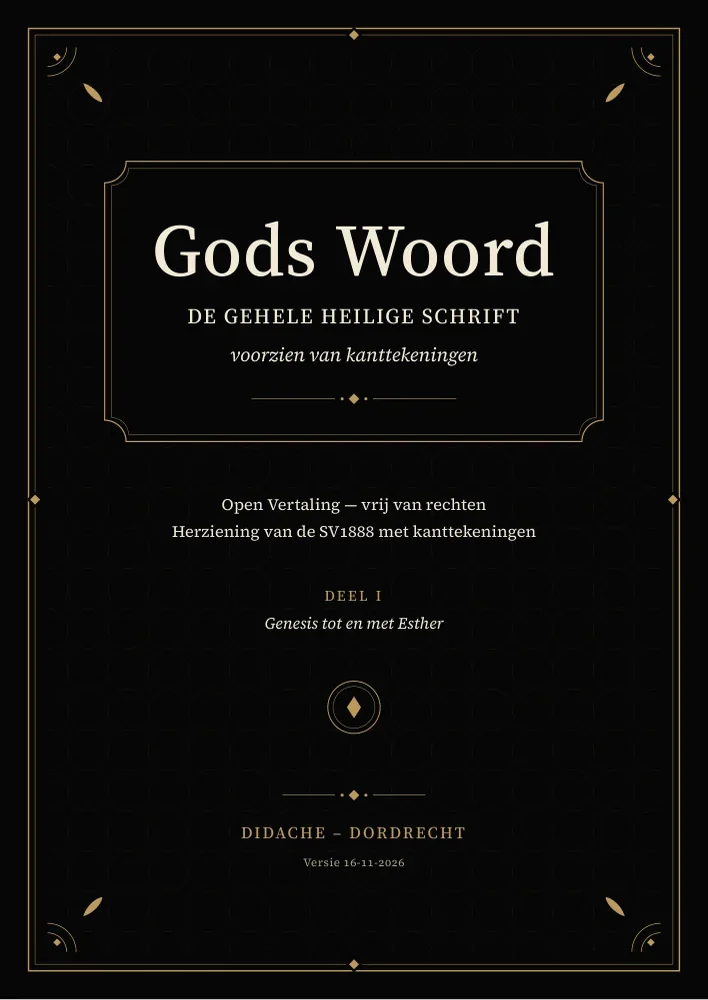
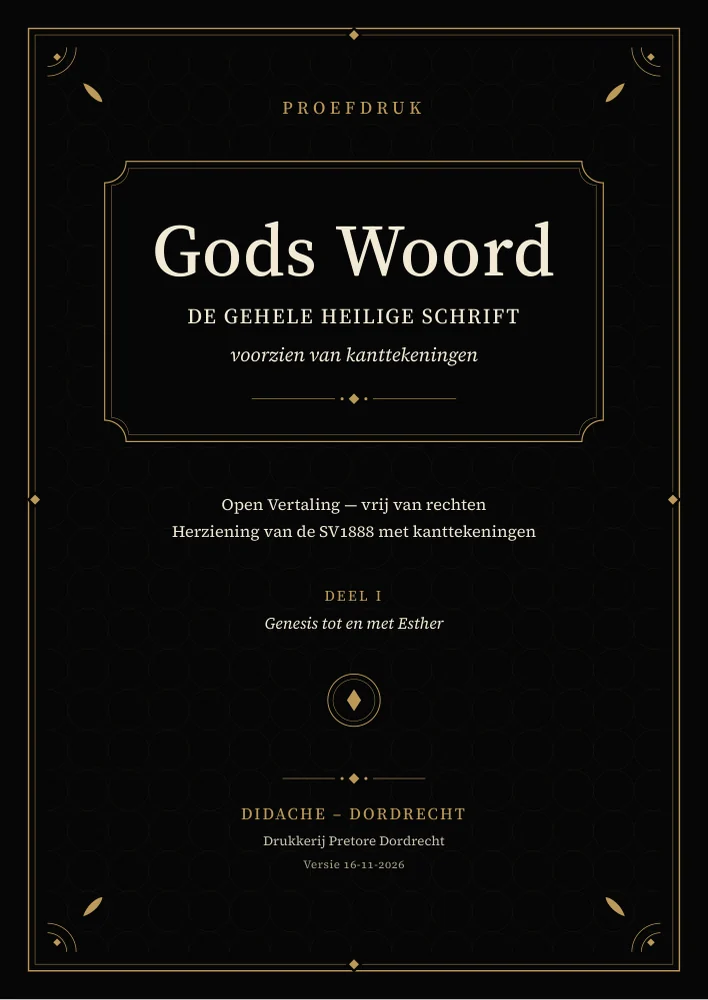
Voorblad: Proefdruk en Drukkerij Pretore Dordrecht
Bovenaan het voorblad staat PROEFDRUK (de constante STAAT; leeg maken voor
de definitieve druk), onder de uitgever Drukkerij Pretore Dordrecht. Geldt
voor de drie delen en de geillustreerde A3-uitgaven. De PDF-links en
omslagbeelden krijgen een nieuw versielabel, zodat browsers niet de oude
versie uit hun cache tonen.

Changed region(s): [[0.3418, 0.775, 0.6525, 0.868], [0.4661, 0.651, 0.5593, 0.744], [0.404, 0.093, 0.5904, 0.124]]

diff --git a/kanttekeningen.html b/kanttekeningen.html
@@ -20,7 +20,7 @@
     <meta property="og:title" content="De Bijbel met kanttekeningen — Open Vertaling">
     <meta property="og:description" content="De Open Vertaling met de herziene kanttekeningen als PDF in drie delen, gezet met de noten onder de tekst op dezelfde bladzijde.">
     <meta property="og:url" content="https://openvertaling.nl/kanttekeningen.html">
-    <meta property="og:image" content="https://openvertaling.nl/images/kanttekeningen/deel-1.webp?v=20261116-voorblad">
+    <meta property="og:image" content="https://openvertaling.nl/images/kanttekeningen/deel-1.webp?v=20261116-proefdruk">
     <meta name="twitter:card" content="summary_large_image">
 
     <link rel="stylesheet" href="css/fonts.css">
@@ -38,7 +38,7 @@
         <a class="kt-terug" href="downloads.html">← Alle downloads</a>
 
         <div class="kt-raster">
-            <img class="kt-omslag" id="kt-omslag" src="images/kanttekeningen/deel-1.webp?v=20261116-voorblad" alt="Omslag van deel I" width="600" height="900">
+            <img class="kt-omslag" id="kt-omslag" src="images/kanttekeningen/deel-1.webp?v=20261116-proefdruk" alt="Omslag van deel I" width="600" height="900">
 
             <div class="kt-tekst">
                 <h1>De Bijbel met kanttekeningen</h1>
@@ -52,21 +52,21 @@
                         <div>
                             <input type="radio" name="deel" id="kt-deel-1" value="1" checked>
                             <label class="kt-kaart" for="kt-deel-1">
-                                <img src="images/kanttekeningen/deel-1.webp?v=20261116-voorblad" alt="" width="46" height="69" decoding="async">
+                                <img src="images/kanttekeningen/deel-1.webp?v=20261116-proefdruk" alt="" width="46" height="69" decoding="async">
                                 <span><span class="kt-naam">Deel I</span><span class="kt-bereik">Genesis t/m Esther</span></span>
                             </label>
                         </div>
                         <div>
                             <input type="radio" name="deel" id="kt-deel-2" value="2">
                             <label class="kt-kaart" for="kt-deel-2">
-                                <img src="images/kanttekeningen/deel-2.webp?v=20261116-voorblad" alt="" width="46" height="69" decoding="async">
+                                <img src="images/kanttekeningen/deel-2.webp?v=20261116-proefdruk" alt="" width="46" height="69" decoding="async">
                                 <span><span class="kt-naam">Deel II</span><span class="kt-bereik">Job t/m Maleachi</span></span>
                             </label>
                         </div>
                         <div>
                             <input type="radio" name="deel" id="kt-deel-3" value="3">
                             <label class="kt-kaart" for="kt-deel-3">
-                                <img src="images/kanttekeningen/deel-3.webp?v=20261116-voorblad" alt="" width="46" height="69" decoding="async">
+                                <img src="images/kanttekeningen/deel-3.webp?v=20261116-proefdruk" alt="" width="46" height="69" decoding="async">
                                 <span><span class="kt-naam">Deel III</span><span class="kt-bereik">Mattheüs t/m Openbaring, met de apocriefe boeken</span></span>
                             </label>
                         </div>
@@ -79,15 +79,15 @@
                 </div>
 
                 <div class="kt-knoppen">
-                    <a class="kt-knop" id="kt-download" href="downloads/open-vertaling-kanttekeningen-deel-1.pdf?v=20261108-eenband" download>PDF downloaden</a>
-                    <a class="kt-knop kt-knop--rand" id="kt-open" href="downloads/open-vertaling-kanttekeningen-deel-1.pdf?v=20261108-eenband" target="_blank" rel="noopener">Openen in de browser</a>
+                    <a class="kt-knop" id="kt-download" href="downloads/open-vertaling-kanttekeningen-deel-1.pdf?v=20261116-proefdruk" download>PDF downloaden</a>
+                    <a class="kt-knop kt-knop--rand" id="kt-open" href="downloads/open-vertaling-kanttekeningen-deel-1.pdf?v=20261116-proefdruk" target="_blank" rel="noopener">Openen in de browser</a>
                 </div>
                 <p class="kt-omvang" id="kt-omvang"></p>
                 <noscript>
                     <p class="kt-omvang">
-                        <a href="downloads/open-vertaling-kanttekeningen-deel-1.pdf?v=20261108-eenband">Deel I</a> ·
-                        <a href="downloads/open-vertaling-kanttekeningen-deel-2.pdf?v=20261108-eenband">Deel II</a> ·
-                        <a href="downloads/open-vertaling-kanttekeningen-deel-3.pdf?v=20261108-eenband">Deel III</a>
+                        <a href="downloads/open-vertaling-kanttekeningen-deel-1.pdf?v=20261116-proefdruk">Deel I</a> ·
+                        <a href="downloads/open-vertaling-kanttekeningen-deel-2.pdf?v=20261116-proefdruk">Deel II</a> ·
+                        <a href="downloads/open-vertaling-kanttekeningen-deel-3.pdf?v=20261116-proefdruk">Deel III</a>
                     </p>
                 </noscript>
             </div>
@@ -151,7 +151,7 @@
     }
 
     function bestand(deel) {
-        return 'downloads/open-vertaling-kanttekeningen-deel-' + deel + '.pdf?v=20261108-eenband';
+        return 'downloads/open-vertaling-kanttekeningen-deel-' + deel + '.pdf?v=20261116-proefdruk';
     }
 
     function toon(deel) {
@@ -159,7 +159,7 @@
         var gegevens = verslag[deel] || {};
         var paginas = {};
         (gegevens.boeken || []).forEach(function (b) { paginas[b.naam] = b.pagina; });
-        document.getElementById('kt-omslag').src = 'images/kanttekeningen/deel-' + deel + '.webp?v=20261116-voorblad';
+        document.getElementById('kt-omslag').src = 'images/kanttekeningen/deel-' + deel + '.webp?v=20261116-proefdruk';
         document.getElementById('kt-omslag').alt = 'Omslag van deel ' + ROMEINS[deel];
         document.getElementById('kt-download').href = bestand(deel);
         document.getElementById('kt-open').href = bestand(deel);

diff --git a/eenband.html b/eenband.html
@@ -9,11 +9,11 @@
 <link rel="stylesheet" href="css/fonts.css"><link rel="stylesheet" href="css/style.css"><link rel="stylesheet" href="css/ontwerp.css?v=20261108-eenband-2"><link rel="stylesheet" href="css/kanttekeningen.css">
 </head><body><nav id="topnav"></nav><script src="js/topnav.js"></script>
 <main class="kt"><a class="kt-terug" href="downloads.html">← Alle downloads</a>
-<div class="kt-raster"><img class="kt-omslag" src="images/kanttekeningen/eenband-a3.webp?v=20261116-voorblad" alt="Zwart voorblad Gods Woord, één complete uitgave" width="707" height="1000">
+<div class="kt-raster"><img class="kt-omslag" src="images/kanttekeningen/eenband-a3.webp?v=20261116-proefdruk" alt="Zwart voorblad Gods Woord, één complete uitgave" width="707" height="1000">
 <div class="kt-tekst"><h1>Gods Woord, compleet in één band</h1><p class="kt-sub">Met kanttekeningen en illustraties van Jan van ’t Hoff</p>
 <p class="kt-oms">Alle 82 openbare Bijbelboeken, inclusief de apocriefe boeken, in één PDF. Met de herziene kanttekeningen onderaan de pagina en alle 126 werken uit de vastgelegde Gospelimages-catalogus van Jan van ’t Hoff.</p>
 <p>Bladformaat <strong>A3 · 297 × 420 mm</strong>, één formaat groter dan de driedelige A4-uitgave. De Bijbeltekst staat in twee kolommen en de kanttekeningen daaronder in drie. Gemarkeerde Godscitaten staan rood en cursief; de Godsnaam is HEERE.</p>
-<div class="kt-knoppen"><a class="kt-knop" href="downloads/gods-woord-kanttekeningen-geillustreerd-a3.pdf?v=20261108-inline" download>Download de complete geïllustreerde PDF</a><a class="kt-knop kt-knop--rand" href="downloads/gods-woord-kanttekeningen-geillustreerd-a3.pdf?v=20261108-inline" target="_blank" rel="noopener">Openen in de browser</a></div><p class="kt-omvang" id="eenband-omvang">Eén complete uitgave · A3 · 126 illustraties</p>
+<div class="kt-knoppen"><a class="kt-knop" href="downloads/gods-woord-kanttekeningen-geillustreerd-a3.pdf?v=20261116-proefdruk" download>Download de complete geïllustreerde PDF</a><a class="kt-knop kt-knop--rand" href="downloads/gods-woord-kanttekeningen-geillustreerd-a3.pdf?v=20261116-proefdruk" target="_blank" rel="noopener">Openen in de browser</a></div><p class="kt-omvang" id="eenband-omvang">Eén complete uitgave · A3 · 126 illustraties</p>
 <p>Ook beschikbaar: <a href="kanttekeningen.html">de driedelige uitgave met kanttekeningen op A4</a> en <a href="downloads/open-vertaling-volledig.pdf" download>de volledige Bijbel zonder kanttekeningen</a>.</p></div></div>
 <section class="kt-over"><h2>De schilderijen bij de tekst</h2><p>De afbeeldingen staan volledig en zonder uitsnede tussen de tekst: rechtstreeks tussen de verzen in de tekstkolommen, maximaal een halve pagina groot. De kanttekeningen sluiten direct aan op de tekst. Bij elk schilderij of elke tekening staan de titel en Bijbelplaats. De afbeelding bevat een klikbare link naar de oorspronkelijke toelichting. Naamsvermelding en gebruiksvoorwaarden staan voorin de PDF. Alle werken zijn opgenomen.</p>
 <figure class="kt-voorbeeld"><img src="images/gospelimages/reeks/7.jpg" width="1441" height="1080" loading="lazy" alt="Het Paradijs: Adam geeft de dieren namen, geschilderd door Jan van ’t Hoff"><figcaption>Het Paradijs — Genesis 2:20. © Jan van ’t Hoff · <a href="https://www.gospelimages.nl/schilderijen/7/het-paradijs">Gospelimages en toelichting</a>.</figcaption></figure>

diff --git a/index.html b/index.html
@@ -127,7 +127,7 @@
          passage uit data/johannes/1.json; zie js/startscherm.js. -->
     <main id="ov-start" class="ka-start" aria-labelledby="ka-start-titel">
         <section class="ka-nieuws ka-uitgave-nieuws" aria-labelledby="ka-uitgave-titel">
-            <a class="ka-uitgave-cover" href="kanttekeningen.html?v=20261108-voorblad" aria-label="Bekijk Gods Woord met titelblad"><img src="images/kanttekeningen/deel-1.webp?v=20261116-voorblad" alt="Zwart titelblad Gods Woord met gouden rand" width="130" height="184"></a>
+            <a class="ka-uitgave-cover" href="kanttekeningen.html?v=20261108-voorblad" aria-label="Bekijk Gods Woord met titelblad"><img src="images/kanttekeningen/deel-1.webp?v=20261116-proefdruk" alt="Zwart titelblad Gods Woord met gouden rand" width="130" height="184"></a>
             <div class="ka-uitgave-bericht">
                 <p class="ka-eyebrow">Gods Woord · Lezen en delen</p>
                 <h2 id="ka-uitgave-titel">Een uitgave om te bewaren, een traktaat om te delen</h2>

diff --git a/scripts/build_kanttekeningen_pdf.py b/scripts/build_kanttekeningen_pdf.py
@@ -922,7 +922,9 @@ def zet_boek(b, boek, namen, perikopen, stats, hoofdstukfilter=None, recto=True)
 
 # Uitgever en versie op het voorblad van alle uitgaven met kanttekeningen.
 UITGEVER = 'Didache – Dordrecht'
+DRUKKER = 'Drukkerij Pretore Dordrecht'
 VERSIE = '16-11-2026'
+STAAT = 'PROEFDRUK'  # leeg maken voor de definitieve druk
 GOUD = (0.74, 0.60, 0.35)
 OMSLAG_ZWART = (0.025, 0.025, 0.025)
 A4 = (595.28, 841.89)
@@ -1063,10 +1065,13 @@ def titelpagina(b, deel):
         for i, t in enumerate(titelregels):
             regel(t, tekst_cursief, HOOGTE - 530 - i * 20)
 
-    _medaillon(uit, midden, 246, 22)
-    _sierlijn(uit, midden, 172, 60)
-    regel(UITGEVER.upper(), uitgever, 136)
-    regel(f'Versie {VERSIE}', versie, 112)
+    if STAAT:
+        regel(STAAT, Stijl(kop, 15, spatie=4.0, afbreken=False, kleur=GOUD), HOOGTE - 96)
+    _medaillon(uit, midden, 252, 22)
+    _sierlijn(uit, midden, 186, 60)
+    regel(UITGEVER.upper(), uitgever, 152)
+    regel(DRUKKER, Stijl(tekst_letter, 11, afbreken=False, kleur=(0.80, 0.77, 0.69)), 130)
+    regel(f'Versie {VERSIE}', versie, 110)
     pdf.pagina(''.join(uit))
 
 
